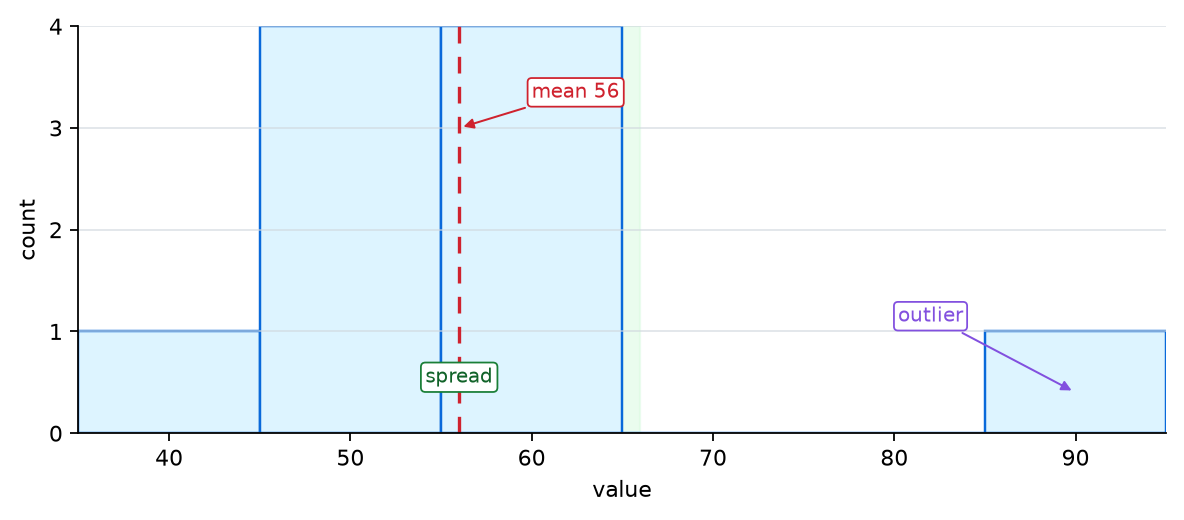
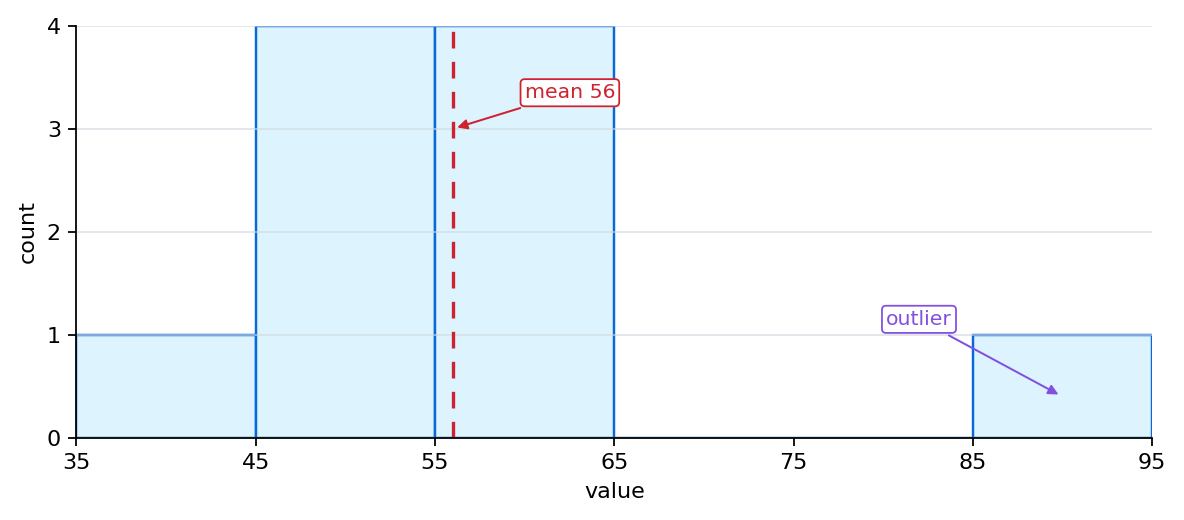
docs: clarify histogram reading in P2-5.2

Changed region(s): [[0.0, 0.0308, 1.0, 0.9538], [0.0312, 0.0308, 0.0625, 0.0615]]

diff --git a/docs/assets/part-02/chapter-05/p2_5_2_distribution_mean_variance.py b/docs/assets/part-02/chapter-05/p2_5_2_distribution_mean_variance.py
@@ -22,7 +22,7 @@ HIGH_VARIANCE = [0, 2, 6, 10, 12]
 
 LANG_TEXT = {
     "ko": {
-        "font_candidates": ["Noto Sans CJK KR", "Apple SD Gothic Neo", "AppleGothic", "Arial Unicode MS", "DejaVu Sans"],
+        "font_candidates": ["Noto Sans CJK KR", "Noto Sans CJK JP", "Apple SD Gothic Neo", "AppleGothic", "Arial Unicode MS", "DejaVu Sans"],
         "value_label": "값",
         "count_label": "개수",
         "mean_label": "평균",
@@ -50,11 +50,11 @@ LANG_TEXT = {
         "variance_outfile": "same-mean-different-variance-en.png",
     },
     "zh": {
-        "font_candidates": ["Noto Sans CJK SC", "Arial Unicode MS", "Heiti TC", "PingFang SC", "DejaVu Sans"],
+        "font_candidates": ["Noto Sans CJK SC", "Noto Sans CJK JP", "Arial Unicode MS", "Heiti TC", "PingFang SC", "DejaVu Sans"],
         "value_label": "值",
         "count_label": "个数",
         "mean_label": "均值",
-        "spread_label": "扩散",
+        "spread_label": "离散程度",
         "outlier_label": "离群值",
         "group_label": "数据组",
         "low_label": "A: 低方差",
@@ -85,8 +85,6 @@ def variance(values: list[float]) -> float:
 
 def save_distribution_summary(text: dict[str, object]) -> None:
     avg = mean(SCORES)
-    low_band = avg - 10
-    high_band = avg + 10
 
     fig, ax = plt.subplots(figsize=(7.4, 3.25), dpi=160)
     fig.patch.set_facecolor("white")
@@ -94,7 +92,6 @@ def save_distribution_summary(text: dict[str, object]) -> None:
 
     bins = [35, 45, 55, 65, 75, 85, 95]
     ax.hist(SCORES, bins=bins, color="#ddf4ff", edgecolor="#0969da", linewidth=1.1)
-    ax.axvspan(low_band, high_band, color="#dafbe1", alpha=0.55, zorder=0)
     ax.axvline(avg, color="#cf222e", linestyle=(0, (5, 4)), linewidth=1.5)
 
     ax.annotate(
@@ -107,15 +104,6 @@ def save_distribution_summary(text: dict[str, object]) -> None:
         color="#cf222e",
         arrowprops={"arrowstyle": "-|>", "color": "#cf222e", "linewidth": 0.9},
         bbox={"boxstyle": "round,pad=0.2", "facecolor": "white", "edgecolor": "#cf222e", "linewidth": 0.8},
-    )
-    ax.annotate(
-        text["spread_label"],
-        xy=(avg, 0.55),
-        ha="center",
-        va="center",
-        fontsize=9.2,
-        color="#116329",
-        bbox={"boxstyle": "round,pad=0.22", "facecolor": "white", "edgecolor": "#1a7f37", "linewidth": 0.8},
     )
     ax.annotate(
         text["outlier_label"],
@@ -133,7 +121,7 @@ def save_distribution_summary(text: dict[str, object]) -> None:
     ax.set_ylabel(text["count_label"])
     ax.set_xlim(35, 95)
     ax.set_ylim(0, 4.0)
-    ax.set_xticks([40, 50, 60, 70, 80, 90])
+    ax.set_xticks(bins)
     ax.set_yticks([0, 1, 2, 3, 4])
     ax.grid(axis="y", color="#d0d7de", linewidth=0.7, alpha=0.75)
 

diff --git a/docs/parts/part-02/chapter-05/section-02.md b/docs/parts/part-02/chapter-05/section-02.md
@@ -1,39 +1,32 @@
 # P2-5.2 분포(distribution), 평균(mean), 분산(variance)
 
 > Section ID: `P2-5.2`
-> Version: `v2026.09.08`
+> Version: `v2026.09.15`
 
 분포(distribution)는 값들이 어디에 얼마나 모여 있는지를 보여 줍니다. 평균(mean)은 중심을, 분산(variance)은 평균 주변의 퍼짐을 숫자로 요약합니다. 평균이 같은 두 데이터 묶음도 분포와 분산은 다를 수 있습니다.
 
-## 분포·중심·퍼짐
+## 점수 구간과 개수
 
-| 기준 | 왜 중요한가 |
-| --- | --- |
-| 분포는 값들의 모양이다 | 데이터 묶음을 읽을 때 먼저 전체 배치를 봐야 중심과 퍼짐 해석이 가능해지기 때문입니다. |
-| 평균은 중심을 하나로 요약한다 | 많은 값을 비교 가능한 하나의 숫자로 압축해야 하기 때문입니다. |
-| 분산은 퍼짐을 따로 드러낸다 | 평균만으로는 같은 중심을 가진 다른 데이터 묶음을 구분할 수 없기 때문입니다. |
-
-## 값의 분포
-
-분포(distribution)는 값들이 어떻게 놓여 있는지를 말합니다.
-
-예를 들어 시험 점수 10개가 있다고 하겠습니다.
+시험 점수 10개를 구간별로 묶으면 값들이 어디에 모여 있는지 볼 수 있습니다.
 
 `40, 45, 48, 50, 52, 55, 58, 60, 62, 90`
 
-이 값을 하나씩 보면 숫자 목록입니다. 하지만 분포 관점으로 보면 다음 질문이 중요해집니다.
+히스토그램(histogram)의 가로축은 점수 구간, 세로축은 각 구간에 들어가는 값의 개수입니다. 여기서는 구간 폭을 모두 10점으로 맞추고, 각 구간의 왼쪽 경계는 포함하며 오른쪽 경계는 다음 구간에 넣습니다.
 
-- 값들이 낮은 쪽에 몰려 있는가?
-- 높은 쪽에 몰려 있는가?
-- 중간에 많이 모여 있는가?
-- 양쪽으로 넓게 퍼져 있는가?
-- 특별히 튀는 값이 있는가?
+| 점수 구간 | 해당 점수 | 개수 |
+| --- | --- | --- |
+| 35 이상 45 미만 | 40 | 1 |
+| 45 이상 55 미만 | 45, 48, 50, 52 | 4 |
+| 55 이상 65 미만 | 55, 58, 60, 62 | 4 |
+| 65 이상 75 미만 | 없음 | 0 |
+| 75 이상 85 미만 | 없음 | 0 |
+| 85 이상 95 미만 | 90 | 1 |
 
-분포는 값의 목록을 “모양”으로 바꾸어 읽게 해 줍니다. 그래서 히스토그램(histogram), 막대그래프(bar chart), 밀도 곡선(density curve) 같은 시각화가 함께 등장합니다.
+45점은 두 번째 구간에, 55점은 세 번째 구간에 들어갑니다. 이렇게 경계를 정하면 같은 점수를 두 번 세지 않습니다. 각 구간의 개수를 더하면 원래 점수 개수인 10이 됩니다.
 
-아래 차트는 분포, 평균, 분산을 읽는 순서를 보여 줍니다. 먼저 전체 모양을 보고, 그다음 중심과 퍼짐을 봅니다.
+![점수 구간별 개수와 평균 56점을 표시한 히스토그램](../../../assets/part-02/chapter-05/distribution-mean-variance-summary-ko.png)
 
-![분포의 모양, 평균, 분산을 함께 읽는 차트](../../../assets/part-02/chapter-05/distribution-mean-variance-summary-ko.png)
+10개 중 8개가 45 이상 65 미만에 모여 있고, 65 이상 85 미만에는 값이 없습니다. 90점은 나머지 값들과 떨어져 있습니다. 빨간 점선은 평균 56점을 나타냅니다. 평균선 하나로는 값이 없는 구간이나 떨어진 점수를 알 수 없으므로, 막대의 배치도 함께 읽어야 합니다.
 
 ## 데이터 분포와 확률분포
 

diff --git a/docs/parts/part-02/chapter-05/section-02.en.md b/docs/parts/part-02/chapter-05/section-02.en.md
@@ -1,39 +1,32 @@
 # P2-5.2 Distribution, Mean, and Variance
 
 > Section ID: `P2-5.2`
-> Version: `v2026.09.08`
+> Version: `v2026.09.15`
 
 A distribution shows where values are concentrated and how many are there. The mean summarizes the center, and variance summarizes the spread around the mean. Two datasets can have the same mean but different distributions and variances.
 
-## Distribution, Center, and Spread
+## Score Intervals and Counts
 
-| Criterion | Why It Matters |
-| --- | --- |
-| A distribution is the shape of values | When reading a data bundle, we must first see the whole arrangement in order to interpret center and spread. |
-| Mean summarizes the center into one value | We need to compress many values into one comparable number. |
-| Variance reveals spread separately | With the mean alone, we cannot distinguish different data bundles that share the same center. |
-
-## Distribution of Values
-
-Distribution means how values are arranged.
-
-Suppose there are 10 test scores.
+Grouping 10 test scores into intervals shows where the values are concentrated.
 
 `40, 45, 48, 50, 52, 55, 58, 60, 62, 90`
 
-If we look one by one, they are just a list of numbers. But from the perspective of distribution, the following questions become important.
+In a histogram, the horizontal axis shows score intervals and the vertical axis shows the number of values in each interval. Here, every interval is 10 points wide. Each interval includes its left boundary, while its right boundary belongs to the next interval.
 
-- Are the values concentrated on the lower side?
-- Are they concentrated on the higher side?
-- Are many of them gathered in the middle?
-- Are they spread widely to both sides?
-- Is there a value that sticks out unusually?
+| Score interval | Scores in the interval | Count |
+| --- | --- | --- |
+| 35 ≤ score < 45 | 40 | 1 |
+| 45 ≤ score < 55 | 45, 48, 50, 52 | 4 |
+| 55 ≤ score < 65 | 55, 58, 60, 62 | 4 |
+| 65 ≤ score < 75 | None | 0 |
+| 75 ≤ score < 85 | None | 0 |
+| 85 ≤ score < 95 | 90 | 1 |
 
-Distribution lets us read a list of values as a `shape`. That is why visualizations such as histograms, bar charts, and density curves appear together.
+A score of 45 belongs to the second interval, and 55 belongs to the third. Defining the boundaries this way avoids counting the same score twice. Adding the interval counts gives 10, the original number of scores.
 
-The chart below shows the order for reading distribution, mean, and variance. We first look at the whole shape, and then look at center and spread.
+![Histogram showing counts by score interval and the mean of 56](/AiBook/assets/part-02/chapter-05/distribution-mean-variance-summary-en.png)
 
-![Chart for reading shape, mean, and variance together](/AiBook/assets/part-02/chapter-05/distribution-mean-variance-summary-en.png)
+Eight of the 10 values fall between 45 inclusive and 65 exclusive; none fall between 65 inclusive and 85 exclusive. The score of 90 is separated from the other values. The red dashed line marks the mean of 56. A mean line alone cannot show empty intervals or separated scores, so the arrangement of the bars must also be read.
 
 ## Data Distributions and Probability Distributions
 

diff --git a/management/release-notes/sections/part-02/P2-5.2.md b/management/release-notes/sections/part-02/P2-5.2.md
@@ -3,6 +3,16 @@
 - Section ID: `P2-5.2`
 - Source File: `docs/parts/part-02/chapter-05/section-02.md`
 
+### v2026.09.15
+- 변경 이유: 히스토그램의 임의 음영이 분산이나 표준편차로 오해될 수 있고, 구간별 개수를 읽는 설명이 부족했다.
+- 본문 반영 내용: 도입부의 중복 기준 표와 분포 정의·질문 목록을 점수 구간별 빈도표로 교체했다. 경계값 45·55의 배정, 빈도 합계 10, 빈 구간과 떨어진 값, 평균선 56의 의미를 설명했다.
+- 도식 반영: 평균 ±10의 임의 음영과 퍼짐 라벨을 제거하고 가로축 눈금을 구간 경계 35·45·55·65·75·85·95에 맞췄다. 한국어·영어·중국어 히스토그램 PNG를 재생성했다.
+- 번역 동기화 메모: 영어·중국어 간체판에 동일한 표와 설명을 반영하고, 중국어 퍼짐 표현을 `离散程度`로 통일했다.
+- 번역 반영 상태: 한국어·영어·중국어 간체판 동기화 완료.
+- 검증: 구간별 빈도와 평균 재계산, 번역 구조·메타데이터·이미지 경로 확인, 세 언어 PNG 시각 검수 완료.
+- 관련 자산: `p2_5_2_distribution_mean_variance.py`, `distribution-mean-variance-summary-{ko,en,zh}.png`.
+- 원문 기준 버전: `v2026.09.15`
+
 ### v2026.09.08
 - 변경 이유: 반복되는 진행 메타 안내를 줄이고 개념과 계산을 직접 설명한다.
 - 본문 반영 내용: 학습 경로 표·중복 목표·이해 수준·요약과 추상적인 학급 사례를 제거했다. 같은 평균인 두 묶음의 분산 2·20.8과 표준편차를 실제로 계산하고, 평균 손실 0.3에 가려진 일부 표본의 손실 2.1을 예시로 제시했다. 분모 n의 기술적 분산과 n−1의 추정용 표본분산을 구분하고 표준편차 단위를 정확히 설명했다.

diff --git a/docs/assets/part-02/chapter-05/README.md b/docs/assets/part-02/chapter-05/README.md
@@ -7,6 +7,7 @@
 - When updating a Mermaid diagram set, revise the English original first. Sync the Korean derivative, and add or refresh a Simplified Chinese derivative only when the diagram itself needs localized labels.
 - Pyplot-generated chart assets keep the generating script next to the output images and use language-suffixed filenames when visible labels differ by manuscript language.
 - The P2-5.2 distribution and variance charts use the same data and layout for Korean, English, and Simplified Chinese. Only graph-reading labels change by language.
+- The P2-5.2 histogram uses boundaries 35, 45, 55, 65, 75, 85, 95 with counts 1, 4, 4, 0, 0, 1 and mean 56. It contains no shaded spread interval; variance is compared in the separate A/B chart.
 - Current language sets:
   - `p2_5_2_distribution_mean_variance.py`
   - `distribution-mean-variance-summary-en.png` / `distribution-mean-variance-summary-ko.png` / `distribution-mean-variance-summary-zh.png`
